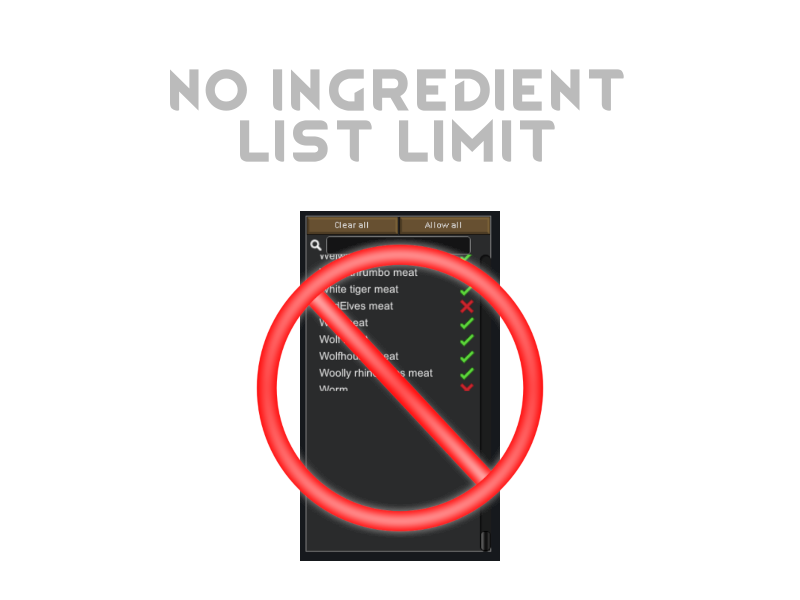
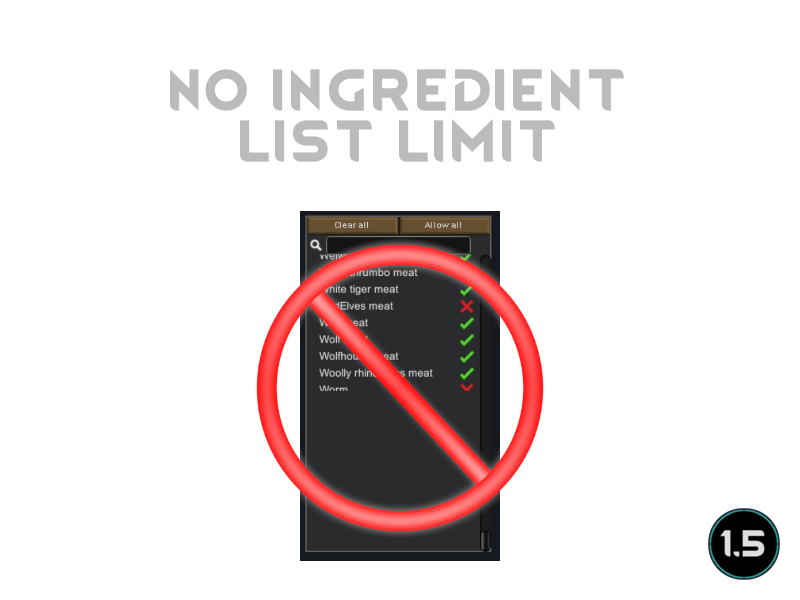
Mod updated for 1.5 and passed autotests

Changed region(s): [[0.875, 0.84, 1.0, 0.99]]

diff --git a/Source/NoIngredientListLimit/NoIngredientListLimit.cs b/Source/NoIngredientListLimit/NoIngredientListLimit.cs
@@ -11,11 +11,6 @@ public static class NoIngredientListLimit
     {
         var harmony = new Harmony("Mlie.NoIngredientListLimit");
         harmony.PatchAll(Assembly.GetExecutingAssembly());
-        LogMessage("Increasing ingredient list-window x10");
-    }
-
-    public static void LogMessage(string message)
-    {
-        Log.Message($"[NoIngredientListLimit]: {message}");
+        Log.Message("[NoIngredientListLimit]: Increasing ingredient list-window x10");
     }
 }

diff --git a/README.md b/README.md
@@ -1,6 +1,6 @@
 # NoIngredientListLimit
 
-![Image](https://i.imgur.com/buuPQel.png)
+![Image](https://i.imgur.com/iCj5o7O.png)
 
 
 Made this for those (slightly insane) users that has added so many mods that the ingredient-list is not able to show all items in the list.
@@ -9,24 +9,26 @@ This mod simply increased that x10, but if anyone should have more than 4000 ing
 
 Inspired when overhearing HydromancerX, also where I got the preview-image list.
 	
-![Image](https://i.imgur.com/O0IIlYj.png)
+![Image](https://i.imgur.com/Ds0rBAD.png)
 
 Since modding is just a hobby for me I expect no donations to keep modding. If you still want to show your support you can gift me anything from my https://store.steampowered.com/wishlist/id/Mlie]Wishlist or buy me a cup of tea.
 
-https://ko-fi.com/G2G55DDYD]![Image](https://i.imgur.com/Utx6OIH.png)
+https://ko-fi.com/G2G55DDYD]![Image](https://i.imgur.com/VWG0yff.png)
 
 
-![Image](https://i.imgur.com/PwoNOj4.png)
+![Image](https://i.imgur.com/5xwDG6H.png)
 
 
 
 -  See if the the error persists if you just have this mod and its requirements active.
 -  If not, try adding your other mods until it happens again.
--  Post your error-log using https://steamcommunity.com/workshop/filedetails/?id=818773962]HugsLib and command Ctrl+F12
+-  Post your error-log using https://steamcommunity.com/workshop/filedetails/?id=818773962]HugsLib or the standalone https://steamcommunity.com/sharedfiles/filedetails/?id=2873415404]Uploader and command Ctrl+F12
 -  For best support, please use the Discord-channel for error-reporting.
 -  Do not report errors by making a discussion-thread, I get no notification of that.
 -  If you have the solution for a problem, please post it to the GitHub repository.
+-  Use https://github.com/RimSort/RimSort/releases/latest]RimSort to sort your mods
 
 
 
+https://steamcommunity.com/sharedfiles/filedetails/changelog/2853567450]![Image](https://img.shields.io/github/v/release/emipa606/NoIngredientListLimit?label=latest%20version&style=plastic&labelColor=0070cd&color=white)
 
